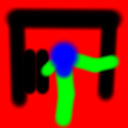
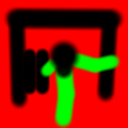
[FIX-POST-SBX]

Changed region(s): [[0.375, 0.3125, 0.625, 0.625]]

diff --git a/Sandbox/src/Scripts/PlayerController.h b/Sandbox/src/Scripts/PlayerController.h
@@ -65,25 +65,38 @@ public:
         if (rb && rb->Type == Engine::Rigidbody2D::BodyType::Dynamic && rb->RuntimeBody.IsValid()) {
             glm::vec3 movement = GetMovementInput();
             const bool isMoving = (movement.x * movement.x + movement.z * movement.z) > 1e-5f;
+            float effectiveSpeed = moveSpeed;
             if (isMoving) {
-                float effectiveSpeed = moveSpeed;
                 if (auto* scene = GetGameObject()->GetScene()) {
                     if (auto* transform = GetGameObject()->GetTransform()) {
                         const auto sample = scene->SampleSurfaceAtXZ(transform->position.x, transform->position.z);
                         effectiveSpeed *= sample.MaxSpeedMultiplier;
                     }
                 }
-                rb->SetVelocityXZ(movement.x * effectiveSpeed, movement.z * effectiveSpeed);
+            }
+
+            const glm::vec2 curVel = rb->GetVelocityXZ();
+            const glm::vec2 targetVel = isMoving
+                ? glm::vec2(movement.x * effectiveSpeed, movement.z * effectiveSpeed)
+                : glm::vec2(0.0f, 0.0f);
+            // Bounded acceleration preserves Box2D knockback impulses while giving crisp idle braking
+            const float maxAccel = isMoving ? 28.0f : 35.0f;
+            const float maxDeltaV = maxAccel * std::max(0.0f, fixedDt);
+            const glm::vec2 dv = targetVel - curVel;
+            const float dvLen = glm::length(dv);
+            if (dvLen > 1e-5f) {
+                const glm::vec2 newVel = (dvLen <= maxDeltaV) ? targetVel : (curVel + (dv / dvLen) * maxDeltaV);
+                rb->SetVelocityXZ(newVel.x, newVel.y);
             }
         }
     }
 
     void Update(float deltaTime) override {
         auto* transform = GetGameObject()->GetTransform();
+        if (!transform || !std::isfinite(deltaTime) || deltaTime <= 0.0f) return;
         auto* animator = GetGameObject()->GetComponent<Engine::Animator>();
         auto* audioSource = GetGameObject()->GetComponent<Engine::AudioSource>();
         auto* rb = GetGameObject()->GetComponent<Engine::Rigidbody2D>();
-        if (!transform) return;
 
         glm::vec3 movement = GetMovementInput();
 
@@ -115,7 +128,7 @@ public:
         // Apply fallback gravity if no dynamic Rigidbody2D handles vertical physics
         if (!rb || rb->Type != Engine::Rigidbody2D::BodyType::Dynamic || !rb->UseGravityY) {
             if (transform->position.y > 0.0f || m_FallbackVerticalVelocity != 0.0f) {
-                m_FallbackVerticalVelocity += -9.8f * deltaTime;
+                m_FallbackVerticalVelocity += -22.0f * deltaTime;
                 transform->position.y += m_FallbackVerticalVelocity * deltaTime;
                 if (transform->position.y <= 0.0f) {
                     transform->position.y = 0.0f;
@@ -126,6 +139,7 @@ public:
 
         const bool isMoving = (movement.x * movement.x + movement.z * movement.z) > 1e-5f;
         const bool hasDynamicBody = (rb && rb->Type == Engine::Rigidbody2D::BodyType::Dynamic && rb->RuntimeBody.IsValid());
+        const bool isGrounded = hasDynamicBody ? rb->IsGrounded(transform->position.y) : (transform->position.y <= 1e-4f);
 
         if (isMoving) {
             ENGINE_DEBUG("PlayerController moving: ({:.2f}, {:.2f}, {:.2f})", movement.x, movement.y, movement.z);
@@ -137,18 +151,24 @@ public:
 
             if (animator) animator->PlayState("Walk", m_LastFacingXZ);
 
-            if (auto* particleSystem = GetGameObject()->GetComponent<Engine::ParticleSystem>()) {
-                m_DustProps.position = transform->position;
-                m_DustProps.position.y += 0.08f; // Spawn slightly above Y = 0 ground plane
-                particleSystem->Emit(m_DustProps);
+            m_DustTimer += deltaTime;
+            if (isGrounded && m_DustTimer >= 0.08f) {
+                m_DustTimer = 0.0f;
+                if (auto* particleSystem = GetGameObject()->GetComponent<Engine::ParticleSystem>()) {
+                    m_DustProps.position = transform->position;
+                    m_DustProps.position.y += 0.08f; // Spawn slightly above Y = 0 ground plane
+                    particleSystem->Emit(m_DustProps);
+                }
             }
         } else {
+            m_DustTimer = 0.0f;
             if (animator) animator->PlayState("Idle", m_LastFacingXZ);
         }
     }
 
 private:
     float m_FallbackVerticalVelocity = 0.0f;
+    float m_DustTimer = 0.0f;
     glm::vec2 m_LastFacingXZ{ 0.0f, 1.0f };
 };
 

diff --git a/Tests/src/Data/DataRegistryTests.cpp b/Tests/src/Data/DataRegistryTests.cpp
@@ -3,7 +3,11 @@
 #include "Engine/Data/DataRegistry.h"
 #include "Engine/Data/GameplayData.h"
 #include "Engine/Data/GameplayDefinitions.h"
+#include "Engine/Physics/PhysicsComponents.h"
+#include "Engine/Scene/Components/PointLightComponent.h"
+#include "Engine/Scene/GameObject.h"
 #include "Engine/Scene/Prefab.h"
+#include "Engine/Scene/Scene.h"
 
 #include <filesystem>
 #include <fstream>
@@ -401,6 +405,7 @@ TEST(DataRegistryTests, DropPrefabPathsResolveAndLoad) {
     const auto& drops = GameplayData::Drops().GetAll();
     ASSERT_FALSE(drops.empty());
 
+    Engine::Scene testScene("DropPrefabVerifyScene");
     const std::filesystem::path assetsRoot("Sandbox/assets");
     for (const auto& drop : drops) {
         ASSERT_FALSE(drop.PrefabPath.empty()) << "Drop '" << drop.Id << "' has empty PrefabPath";
@@ -409,6 +414,16 @@ TEST(DataRegistryTests, DropPrefabPathsResolveAndLoad) {
         auto prefab = Prefab::LoadFromFile(fullPath.string());
         ASSERT_NE(prefab, nullptr) << "Failed to load prefab: " << fullPath.string();
         EXPECT_TRUE(prefab->IsValid()) << "Invalid prefab JSON: " << fullPath.string();
+
+        auto* go = testScene.InstantiatePrefab(*prefab, { 1.0f, 0.0f, 2.0f });
+        ASSERT_NE(go, nullptr) << "Failed to instantiate prefab: " << fullPath.string();
+        EXPECT_NE(go->GetComponent<Engine::BoxCollider2D>(), nullptr) << "Missing BoxCollider2D on " << drop.Id;
+        if (drop.Id == "drop_beacon") {
+            auto* pl = go->GetComponent<Engine::PointLightComponent>();
+            ASSERT_NE(pl, nullptr) << "drop_beacon spawned without PointLightComponent";
+            EXPECT_EQ(pl->Semantic, Engine::LightSemantic::SafeLifeline);
+            EXPECT_EQ(pl->Priority, Engine::LightPriority::High_Tactical);
+        }
     }
 
     GameplayData::Shutdown();

diff --git a/Sandbox/src/Editor/EditorLayer.cpp b/Sandbox/src/Editor/EditorLayer.cpp
@@ -90,7 +90,15 @@ void EditorLayer::OnUpdate(float deltaTime) {
     }
     if (m_SceneState == SceneState::Play && m_ActiveScene) {
         Engine::SceneManager::UpdateRuntime(deltaTime);
-        m_ActiveScene = Engine::SceneManager::GetActiveScene();
+        auto nextScene = Engine::SceneManager::GetActiveScene();
+        if (nextScene != m_ActiveScene) {
+            m_ActiveScene = nextScene;
+            m_RuntimeScene = nextScene;
+            if (m_ActiveScene && viewportSize.x > 0.0f && viewportSize.y > 0.0f) {
+                m_ActiveScene->OnViewportResize(static_cast<uint32_t>(viewportSize.x),
+                                                static_cast<uint32_t>(viewportSize.y));
+            }
+        }
     } else if (m_SceneState == SceneState::Edit && m_ActiveScene) {
         for (const auto& go : m_ActiveScene->GetGameObjects()) {
             if (!go || !go->IsActiveInHierarchy()) {
@@ -200,7 +208,10 @@ void EditorLayer::OnSceneStop() {
     }
 
     Engine::SceneManager::CancelTransition();
-    if (m_RuntimeScene && m_RuntimeScene->IsRuntimeRunning()) {
+    if (m_ActiveScene && m_ActiveScene != m_EditorScene && m_ActiveScene->IsRuntimeRunning()) {
+        m_ActiveScene->OnRuntimeStop();
+    }
+    if (m_RuntimeScene && m_RuntimeScene != m_ActiveScene && m_RuntimeScene->IsRuntimeRunning()) {
         m_RuntimeScene->OnRuntimeStop();
     }
 

diff --git a/Engine/src/Scene/Serialization/SceneSerializer.cpp b/Engine/src/Scene/Serialization/SceneSerializer.cpp
@@ -101,7 +101,8 @@ static const ComponentDeserializerEntry s_ComponentDeserializers[] = {
     { "TerrainChunkManager",  DeserializeTerrainChunkManager },
     { "ParticleSystem",       DeserializeParticleSystem },
     { "DirectionalLight", DeserializeDirectionalLight },
-    { "PointLight",       DeserializePointLight },
+    { "PointLight",          DeserializePointLight },
+    { "PointLightComponent", DeserializePointLight },
     { "PostProcess",      DeserializePostProcess },
     { "Wind",             DeserializeWind },
     { "SquashStretch",    DeserializeSquashStretch },
